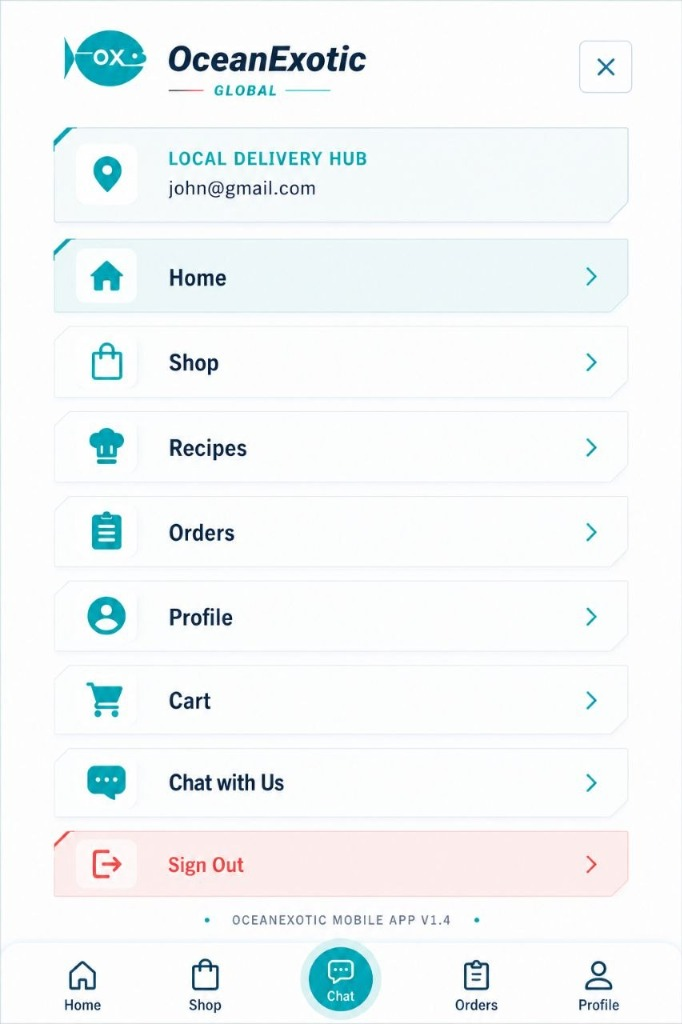
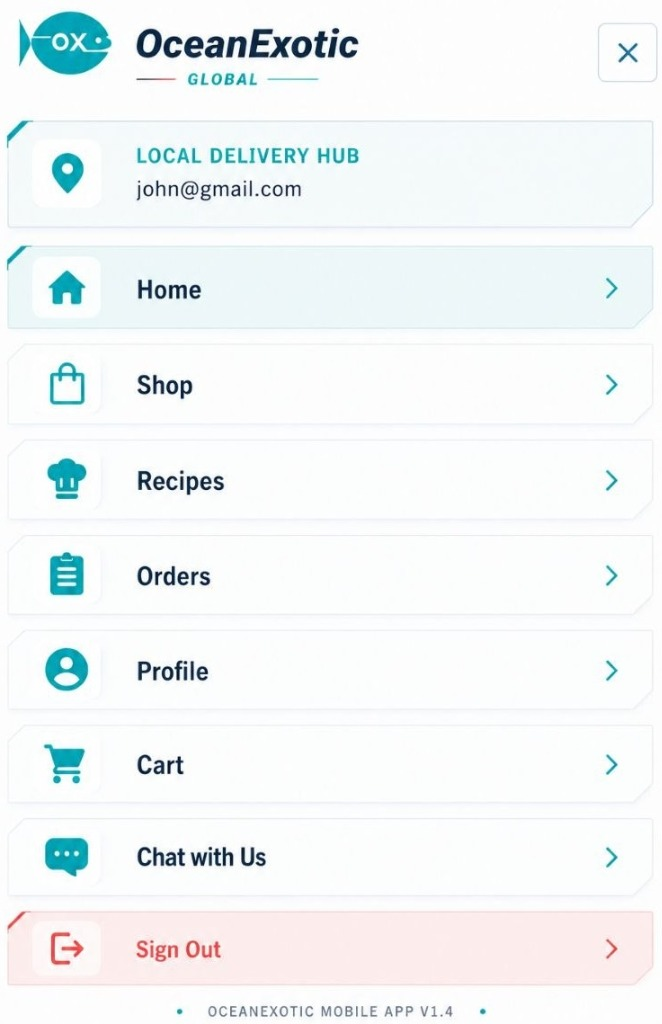
feat: Align cards (premium sellers and reviews) with Deep Fishing rounded design system, integrate combined search/hub header, and fix Pre-Orders layout aspect ratio

diff --git a/apps/customer-app/app/(customer)/home.tsx b/apps/customer-app/app/(customer)/home.tsx
@@ -541,7 +541,7 @@ export default function CustomerHomeScreen() {
                     )}
 
                     {/* Relocated Pre-Orders Widget (Absolute Bottom Right) */}
-                    <View className="absolute bottom-4 right-4 w-[55%] z-30 pointer-events-auto" style={{ aspectRatio: 2.0 }}>
+                    <View className="absolute bottom-4 right-4 w-[55%] z-30 pointer-events-auto" style={{ aspectRatio: 3.737 }}>
                       <Image
                         source={require("../../assets/pre_orders_mockup.jpg")}
                         style={StyleSheet.absoluteFillObject}
@@ -974,82 +974,72 @@ export default function CustomerHomeScreen() {
                   <SectionTitle title="Premium Sellers" subtitle="Top Rated Sellers" />
                   <ScrollView horizontal showsHorizontalScrollIndicator={false} className="mt-4">
                     {(settings.topSellers || []).map((seller) => {
-                      if (seller.id === "SEL-003") {
-                        return (
-                          <Pressable
-                            key={seller.id}
-                            onPress={() => router.push({ pathname: "/products", params: { sellerId: seller.id } })}
-                            className="mr-3 w-56"
-                            style={{ height: 122 }}
-                          >
-                            <Image
-                              source={require("../../assets/deep_fishing_card.jpg")}
-                              style={StyleSheet.absoluteFillObject}
-                              contentFit="cover"
-                            />
-                          </Pressable>
-                        );
-                      }
                       return (
                         <Pressable
                           key={seller.id}
                           onPress={() => router.push({ pathname: "/products", params: { sellerId: seller.id } })}
-                          className="mr-3 w-56"
+                          className="mr-3 w-56 rounded-2xl p-3 shadow-md border"
+                          style={{
+                            backgroundColor: colors.isDark ? "#0D1527" : "#FFFFFF",
+                            borderColor: colors.border,
+                            height: 122,
+                            justifyContent: "space-between"
+                          }}
                         >
-                          <ChamferedBox
-                            fillColor={colors.card}
-                            strokeColor={colors.border}
-                            bevelSize={14}
-                            style={{ minHeight: 140 }}
-                            className="w-full p-4 relative overflow-hidden"
-                          >
-                            <View className="flex-row justify-between items-center mb-2">
-                              <Text className="text-[8px] font-black uppercase" style={{ color: primaryColor }}>{seller.id}</Text>
-                              <View className="flex-row items-center gap-1">
-                                <View className="h-1.5 w-1.5 rounded-none bg-[#00ff88]" />
-                                <Text className="text-[6px] font-black uppercase" style={{ color: colors.textMuted }}>LIVE</Text>
-                              </View>
+                          {/* Top Row: Seller ID & LIVE Beacon */}
+                          <View className="flex-row justify-between items-center">
+                            <Text className="text-[10px] font-black uppercase" style={{ color: primaryColor }}>{seller.id}</Text>
+                            <View className="flex-row items-center gap-1 bg-emerald-500/10 px-1.5 py-0.5 rounded-full">
+                              <View className="h-1 w-1 rounded-full bg-[#10b981]" />
+                              <Text className="text-[6.5px] font-black uppercase text-[#10b981]">LIVE</Text>
                             </View>
-                            
-                            <View className="flex-row items-center gap-3">
-                              <ChamferedBox
-                                fillColor={colors.bgAlt}
-                                strokeColor={colors.border}
-                                bevelSize={6}
-                                style={{ minHeight: 40 }}
-                                className="h-10 w-10 items-center justify-center relative overflow-hidden"
-                              >
-                                <Text className="text-2xl relative z-10">{seller.image}</Text>
-                              </ChamferedBox>
-                              <View className="flex-1">
-                                <Text className="text-sm font-black uppercase italic" style={{ color: colors.text }} numberOfLines={1}>
-                                  {seller.name}
-                                </Text>
-                                <View className="flex-row items-center gap-2 mt-1">
-                                  <Text className="text-[8px] font-black text-warning">★ {seller.rating}</Text>
-                                  <Text className="text-[8px] font-black" style={{ color: primaryColor }}>{seller.speed}</Text>
+                          </View>
+                          
+                          {/* Middle Row: Emblem & Name/Rating */}
+                          <View className="flex-row items-center gap-2.5 my-0.5">
+                            <View className="h-10 w-10 items-center justify-center rounded-xl border" style={{ backgroundColor: colors.bgAlt, borderColor: colors.border }}>
+                              <Text className="text-xl">{seller.image}</Text>
+                            </View>
+                            <View className="flex-1">
+                              <Text className="text-xs font-black uppercase italic" style={{ color: colors.text }} numberOfLines={1}>
+                                {seller.name}
+                              </Text>
+                              <View className="flex-row items-center gap-1 mt-0.5">
+                                <View className="flex-row items-center gap-1 px-1 rounded" style={{ backgroundColor: colors.isDark ? "#1E293B" : "#FEF3C7", borderColor: colors.border }}>
+                                  <Text className="text-[8px] font-black text-amber-500">★ {seller.rating}</Text>
+                                </View>
+                                <Text className="text-[8px]" style={{ color: colors.textMuted }}>|</Text>
+                                <View className="flex-row items-center gap-0.5 px-1 rounded" style={{ backgroundColor: colors.isDark ? "#1E293B" : "#F1F5F9" }}>
+                                  <MaterialCommunityIcons name="clock-outline" size={7} color={colors.textMuted} />
+                                  <Text className="text-[8px] font-black" style={{ color: colors.textMuted }}>{seller.speed}</Text>
                                 </View>
                               </View>
                             </View>
-                            
-                            <View className="flex-row justify-between items-center mt-3 pt-2 border-t" style={{ borderTopColor: colors.border }}>
-                              <View className="flex-row gap-1">
-                                {seller.products.map((p, idx) => (
-                                  <ChamferedBox
-                                    key={idx}
-                                    fillColor={colors.bgAlt}
-                                    strokeColor={colors.border}
-                                    bevelSize={3}
-                                    style={{ minHeight: 20 }}
-                                    className="h-5 w-5 items-center justify-center relative overflow-hidden"
-                                  >
-                                    <Text className="text-xs relative z-10">{p}</Text>
-                                  </ChamferedBox>
-                                ))}
-                              </View>
-                              <Text className="text-[8px] font-black uppercase" style={{ color: primaryColor }}>VIEW NODE ➜</Text>
+                          </View>
+                          
+                          {/* Bottom Row: Products & Shop Now Button */}
+                          <View className="flex-row justify-between items-center pt-1.5 border-t" style={{ borderTopColor: colors.border }}>
+                            <View className="flex-row gap-0.5">
+                              {seller.products.slice(0, 3).map((p, idx) => (
+                                <View
+                                  key={idx}
+                                  className="h-6 w-6 items-center justify-center rounded-lg border"
+                                  style={{ backgroundColor: colors.bgAlt, borderColor: colors.border }}
+                                >
+                                  <Text className="text-xs">{p}</Text>
+                                </View>
+                              ))}
                             </View>
-                          </ChamferedBox>
+                            
+                            {/* SHOP NOW Button */}
+                            <View className="flex-row items-center gap-0.5 px-2 py-0.5 rounded-full shadow-sm" style={{ backgroundColor: "#0284c7" }}>
+                              <MaterialCommunityIcons name="cart-outline" size={8} color="#ffffff" />
+                              <Text className="text-[7px] font-black uppercase text-white tracking-wider">SHOP NOW</Text>
+                              <View className="bg-white rounded-full p-0.5 ml-0.5">
+                                <MaterialCommunityIcons name="chevron-right" size={5} color="#0284c7" />
+                              </View>
+                            </View>
+                          </View>
                         </Pressable>
                       );
                     })}
@@ -1101,18 +1091,47 @@ export default function CustomerHomeScreen() {
                       const initials = displayName.split(' ').map((n: string) => n[0] || '').join('').slice(0, 2).toUpperCase();
                       const ratingNum = parseFloat(r.rating) || 5;
                       return (
-                        <ChamferedBox 
+                        <View 
                           key={r.id} 
-                          fillColor={colors.card}
-                          strokeColor={colors.border}
-                          bevelSize={14}
-                          style={{ minHeight: 120 }}
-                          className="p-4 w-64 relative overflow-hidden"
+                          className="p-3 w-64 rounded-2xl shadow-md border"
+                          style={{
+                            backgroundColor: colors.isDark ? "#0D1527" : "#FFFFFF",
+                            borderColor: colors.border,
+                            minHeight: 120,
+                            justifyContent: "space-between"
+                          }}
                         >
-                          <Text className="text-[10px] font-black uppercase relative z-10" style={{ color: primaryColor }}>★ {ratingNum % 1 === 0 ? ratingNum + '.0' : ratingNum}</Text>
-                          <Text className="mt-2 text-sm italic relative z-10" style={{ color: colors.textMuted }}>&ldquo;{displayText}&rdquo;</Text>
-                          <Text className="mt-2 text-[10px] font-black uppercase relative z-10" style={{ color: colors.text }}>— {displayName}</Text>
-                        </ChamferedBox>
+                          {/* Top: Star Rating & Verified Badge */}
+                          <View className="flex-row justify-between items-center mb-1">
+                            <View className="flex-row">
+                              {Array.from({ length: 5 }).map((_, i) => (
+                                <MaterialCommunityIcons 
+                                  key={i} 
+                                  name="star" 
+                                  size={10} 
+                                  color={i < Math.floor(ratingNum) ? "#f59e0b" : "#e2e8f0"} 
+                                />
+                              ))}
+                            </View>
+                            <View className="flex-row items-center gap-0.5 bg-sky-500/10 px-1.5 py-0.5 rounded-full">
+                              <MaterialCommunityIcons name="decagram" size={8} color="#0284c7" />
+                              <Text className="text-[7px] font-black uppercase text-[#0284c7]">VERIFIED</Text>
+                            </View>
+                          </View>
+
+                          {/* Middle: Review Comment Text */}
+                          <Text className="text-[11px] italic text-slate-500 leading-tight flex-1" style={{ color: colors.textMuted }} numberOfLines={3}>
+                            &ldquo;{displayText}&rdquo;
+                          </Text>
+
+                          {/* Bottom: User Info */}
+                          <View className="flex-row items-center gap-2 pt-1.5 border-t" style={{ borderTopColor: colors.border }}>
+                            <View className="h-6 w-6 rounded-full items-center justify-center border" style={{ backgroundColor: colors.bgAlt, borderColor: colors.border }}>
+                              <Text className="text-[8px] font-black" style={{ color: colors.text }}>{initials || 'C'}</Text>
+                            </View>
+                            <Text className="text-[9px] font-black uppercase" style={{ color: colors.text }}>— {displayName}</Text>
+                          </View>
+                        </View>
                       );
                     })}
                   </ScrollView>

diff --git a/apps/customer-app/src/components/customer/CustomerHeader.tsx b/apps/customer-app/src/components/customer/CustomerHeader.tsx
@@ -210,36 +210,43 @@ export function CustomerHeader({ showSearch = true }: CustomerHeaderProps) {
         </View>
 
         {showSearch && pathname !== "/login" && pathname !== "/products" ? (
-          <View className="mt-2">
-            <View className="relative">
-              <TextInput
-                value={search}
-                onChangeText={setSearch}
-                onSubmitEditing={onSearch}
-                placeholder="Search products..."
-                placeholderTextColor={colors.textMuted}
-                returnKeyType="search"
-                className="h-10 rounded-none border px-4 text-xs"
-                style={{
-                  borderColor: colors.border,
-                  backgroundColor: colors.card,
-                  color: colors.text
-                }}
-              />
-              {/* Cut-corner bevel overlays on search bar */}
-              <Svg width={8} height={8} style={{ position: 'absolute', top: -1, left: -1, zIndex: 10 }}>
-                <Polygon points="0,0 8,0 0,8" fill={colors.bg} />
-              </Svg>
-              <Svg width={8} height={8} style={{ position: 'absolute', bottom: -1, right: -1, zIndex: 10 }}>
-                <Polygon points="8,8 0,8 8,0" fill={colors.bg} />
-              </Svg>
-            </View>
-            <Text 
-              className="mt-1 text-[8px] font-black uppercase tracking-widest"
-              style={{ color: colors.textMuted }}
-            >
-              Port Blair • Live Delivery Hub
-            </Text>
+          <View className="mt-2 w-full relative" style={{ aspectRatio: 3.606 }}>
+            <Image
+              source={require("../../../assets/search_and_hub_mockup.jpg")}
+              style={StyleSheet.absoluteFillObject}
+              contentFit="contain"
+            />
+            {/* Transparent absolute TextInput overlay over the "Search products..." input field */}
+            <TextInput
+              value={search}
+              onChangeText={setSearch}
+              onSubmitEditing={onSearch}
+              placeholder="Search products..."
+              placeholderTextColor="transparent" // Hide placeholder text to prevent double text rendering
+              returnKeyType="search"
+              style={{
+                position: 'absolute',
+                top: '2%',
+                left: '14%',
+                width: '68%',
+                height: '44%',
+                color: '#334155', // dark slate text color for visibility
+                fontSize: 12,
+                paddingHorizontal: 8,
+              }}
+            />
+            
+            {/* Search Icon Click Overlay */}
+            <Pressable
+              onPress={onSearch}
+              style={{
+                position: 'absolute',
+                top: '2%',
+                left: '2%',
+                width: '12%',
+                height: '44%',
+              }}
+            />
           </View>
         ) : null}
 
